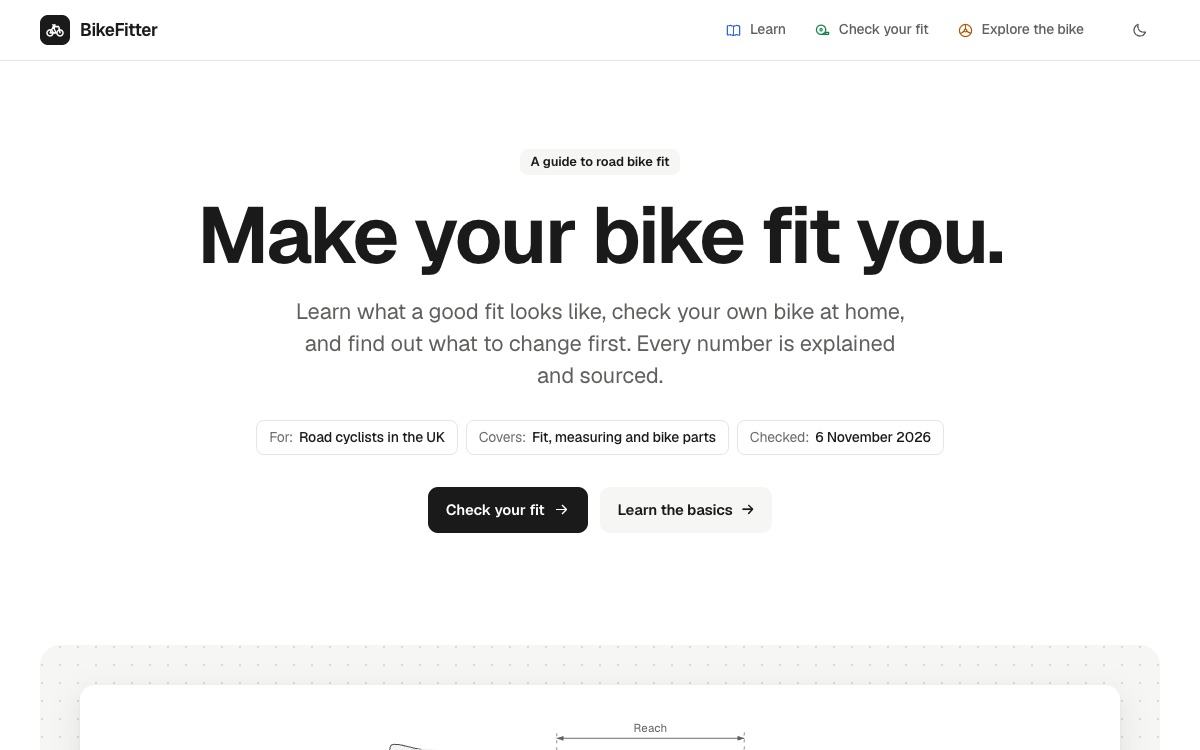
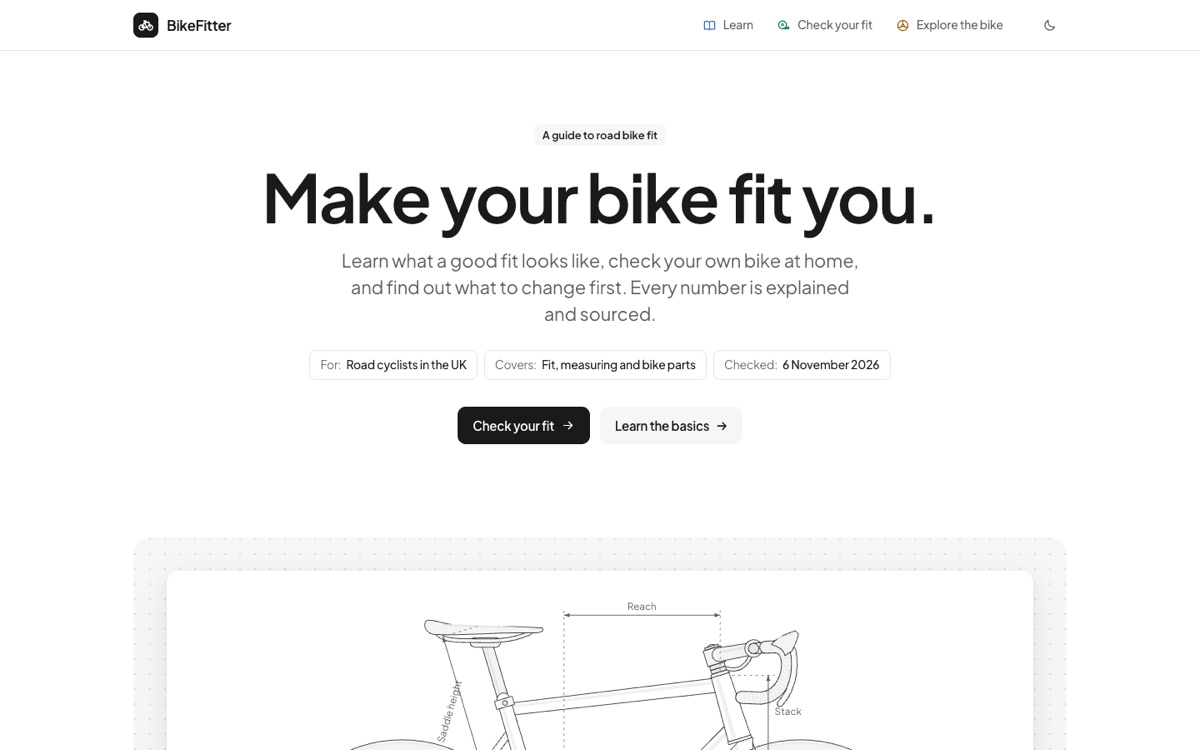
Set Workstand typeface to Plus Jakarta Sans + JetBrains Mono
The user chose this pairing. It is now Workstand's default (pairing 1)
in workstand.css and the Preview bar. Geist + Geist Mono moves to
pairing 2, for comparison only. JetBrains Mono is added to the
Workstand Google Fonts link, so the style no longer relies on the
Logbook link.

Updates the workstand-design skill (type section, review checklist,
token reference), AGENTS.md (§6.2, §6.5, §12, §13), the gallery copy
and the Workstand thumbnail.

diff --git a/designs/site/bike.html b/designs/site/bike.html
@@ -9,7 +9,7 @@
 <link rel="preconnect" href="https://fonts.googleapis.com"><link rel="preconnect" href="https://fonts.gstatic.com" crossorigin>
 <link rel="stylesheet" href="https://fonts.googleapis.com/css2?family=Instrument+Sans:wdth,wght@75..100,400..700&amp;family=IBM+Plex+Mono:wght@400;500;600&amp;family=Schibsted+Grotesk:wght@400..800&amp;family=Martian+Mono:wdth,wght@75..112.5,300..600&amp;family=Newsreader:opsz,wght@6..72,400..700&amp;family=JetBrains+Mono:wght@400..700&amp;display=swap">
 <link rel="stylesheet" href="https://fonts.googleapis.com/css2?family=Archivo:wdth,wght@62..125,100..900&amp;family=Source+Serif+4:opsz,wght@8..60,400..700&amp;family=Barlow+Condensed:wght@500;600;700;800&amp;family=Literata:opsz,wght@7..72,400..700&amp;family=Sofia+Sans+Extra+Condensed:wght@500..900&amp;family=Space+Mono:wght@400;700&amp;display=swap">
-<link rel="stylesheet" href="https://fonts.googleapis.com/css2?family=Geist:wght@300..800&amp;family=Geist+Mono:wght@400..600&amp;family=Plus+Jakarta+Sans:wght@400..800&amp;family=Figtree:wght@400..800&amp;family=DM+Mono:wght@400;500&amp;display=swap">
+<link rel="stylesheet" href="https://fonts.googleapis.com/css2?family=Plus+Jakarta+Sans:wght@400..800&amp;family=JetBrains+Mono:wght@400..700&amp;family=Geist:wght@300..800&amp;family=Geist+Mono:wght@400..600&amp;family=Figtree:wght@400..800&amp;family=DM+Mono:wght@400;500&amp;display=swap">
 <link rel="stylesheet" href="../shared/bike.css">
 <link rel="stylesheet" href="styles/base.css">
 <link rel="stylesheet" href="styles/logbook.css">

diff --git a/designs/site/fit.html b/designs/site/fit.html
@@ -9,7 +9,7 @@
 <link rel="preconnect" href="https://fonts.googleapis.com"><link rel="preconnect" href="https://fonts.gstatic.com" crossorigin>
 <link rel="stylesheet" href="https://fonts.googleapis.com/css2?family=Instrument+Sans:wdth,wght@75..100,400..700&amp;family=IBM+Plex+Mono:wght@400;500;600&amp;family=Schibsted+Grotesk:wght@400..800&amp;family=Martian+Mono:wdth,wght@75..112.5,300..600&amp;family=Newsreader:opsz,wght@6..72,400..700&amp;family=JetBrains+Mono:wght@400..700&amp;display=swap">
 <link rel="stylesheet" href="https://fonts.googleapis.com/css2?family=Archivo:wdth,wght@62..125,100..900&amp;family=Source+Serif+4:opsz,wght@8..60,400..700&amp;family=Barlow+Condensed:wght@500;600;700;800&amp;family=Literata:opsz,wght@7..72,400..700&amp;family=Sofia+Sans+Extra+Condensed:wght@500..900&amp;family=Space+Mono:wght@400;700&amp;display=swap">
-<link rel="stylesheet" href="https://fonts.googleapis.com/css2?family=Geist:wght@300..800&amp;family=Geist+Mono:wght@400..600&amp;family=Plus+Jakarta+Sans:wght@400..800&amp;family=Figtree:wght@400..800&amp;family=DM+Mono:wght@400;500&amp;display=swap">
+<link rel="stylesheet" href="https://fonts.googleapis.com/css2?family=Plus+Jakarta+Sans:wght@400..800&amp;family=JetBrains+Mono:wght@400..700&amp;family=Geist:wght@300..800&amp;family=Geist+Mono:wght@400..600&amp;family=Figtree:wght@400..800&amp;family=DM+Mono:wght@400;500&amp;display=swap">
 <link rel="stylesheet" href="../shared/bike.css">
 <link rel="stylesheet" href="styles/base.css">
 <link rel="stylesheet" href="styles/logbook.css">

diff --git a/designs/site/index.html b/designs/site/index.html
@@ -9,7 +9,7 @@
 <link rel="preconnect" href="https://fonts.googleapis.com"><link rel="preconnect" href="https://fonts.gstatic.com" crossorigin>
 <link rel="stylesheet" href="https://fonts.googleapis.com/css2?family=Instrument+Sans:wdth,wght@75..100,400..700&amp;family=IBM+Plex+Mono:wght@400;500;600&amp;family=Schibsted+Grotesk:wght@400..800&amp;family=Martian+Mono:wdth,wght@75..112.5,300..600&amp;family=Newsreader:opsz,wght@6..72,400..700&amp;family=JetBrains+Mono:wght@400..700&amp;display=swap">
 <link rel="stylesheet" href="https://fonts.googleapis.com/css2?family=Archivo:wdth,wght@62..125,100..900&amp;family=Source+Serif+4:opsz,wght@8..60,400..700&amp;family=Barlow+Condensed:wght@500;600;700;800&amp;family=Literata:opsz,wght@7..72,400..700&amp;family=Sofia+Sans+Extra+Condensed:wght@500..900&amp;family=Space+Mono:wght@400;700&amp;display=swap">
-<link rel="stylesheet" href="https://fonts.googleapis.com/css2?family=Geist:wght@300..800&amp;family=Geist+Mono:wght@400..600&amp;family=Plus+Jakarta+Sans:wght@400..800&amp;family=Figtree:wght@400..800&amp;family=DM+Mono:wght@400;500&amp;display=swap">
+<link rel="stylesheet" href="https://fonts.googleapis.com/css2?family=Plus+Jakarta+Sans:wght@400..800&amp;family=JetBrains+Mono:wght@400..700&amp;family=Geist:wght@300..800&amp;family=Geist+Mono:wght@400..600&amp;family=Figtree:wght@400..800&amp;family=DM+Mono:wght@400;500&amp;display=swap">
 <link rel="stylesheet" href="../shared/bike.css">
 <link rel="stylesheet" href="styles/base.css">
 <link rel="stylesheet" href="styles/logbook.css">

diff --git a/designs/site/learn.html b/designs/site/learn.html
@@ -9,7 +9,7 @@
 <link rel="preconnect" href="https://fonts.googleapis.com"><link rel="preconnect" href="https://fonts.gstatic.com" crossorigin>
 <link rel="stylesheet" href="https://fonts.googleapis.com/css2?family=Instrument+Sans:wdth,wght@75..100,400..700&amp;family=IBM+Plex+Mono:wght@400;500;600&amp;family=Schibsted+Grotesk:wght@400..800&amp;family=Martian+Mono:wdth,wght@75..112.5,300..600&amp;family=Newsreader:opsz,wght@6..72,400..700&amp;family=JetBrains+Mono:wght@400..700&amp;display=swap">
 <link rel="stylesheet" href="https://fonts.googleapis.com/css2?family=Archivo:wdth,wght@62..125,100..900&amp;family=Source+Serif+4:opsz,wght@8..60,400..700&amp;family=Barlow+Condensed:wght@500;600;700;800&amp;family=Literata:opsz,wght@7..72,400..700&amp;family=Sofia+Sans+Extra+Condensed:wght@500..900&amp;family=Space+Mono:wght@400;700&amp;display=swap">
-<link rel="stylesheet" href="https://fonts.googleapis.com/css2?family=Geist:wght@300..800&amp;family=Geist+Mono:wght@400..600&amp;family=Plus+Jakarta+Sans:wght@400..800&amp;family=Figtree:wght@400..800&amp;family=DM+Mono:wght@400;500&amp;display=swap">
+<link rel="stylesheet" href="https://fonts.googleapis.com/css2?family=Plus+Jakarta+Sans:wght@400..800&amp;family=JetBrains+Mono:wght@400..700&amp;family=Geist:wght@300..800&amp;family=Geist+Mono:wght@400..600&amp;family=Figtree:wght@400..800&amp;family=DM+Mono:wght@400;500&amp;display=swap">
 <link rel="stylesheet" href="../shared/bike.css">
 <link rel="stylesheet" href="styles/base.css">
 <link rel="stylesheet" href="styles/logbook.css">

diff --git a/designs/site/lesson.html b/designs/site/lesson.html
@@ -9,7 +9,7 @@
 <link rel="preconnect" href="https://fonts.googleapis.com"><link rel="preconnect" href="https://fonts.gstatic.com" crossorigin>
 <link rel="stylesheet" href="https://fonts.googleapis.com/css2?family=Instrument+Sans:wdth,wght@75..100,400..700&amp;family=IBM+Plex+Mono:wght@400;500;600&amp;family=Schibsted+Grotesk:wght@400..800&amp;family=Martian+Mono:wdth,wght@75..112.5,300..600&amp;family=Newsreader:opsz,wght@6..72,400..700&amp;family=JetBrains+Mono:wght@400..700&amp;display=swap">
 <link rel="stylesheet" href="https://fonts.googleapis.com/css2?family=Archivo:wdth,wght@62..125,100..900&amp;family=Source+Serif+4:opsz,wght@8..60,400..700&amp;family=Barlow+Condensed:wght@500;600;700;800&amp;family=Literata:opsz,wght@7..72,400..700&amp;family=Sofia+Sans+Extra+Condensed:wght@500..900&amp;family=Space+Mono:wght@400;700&amp;display=swap">
-<link rel="stylesheet" href="https://fonts.googleapis.com/css2?family=Geist:wght@300..800&amp;family=Geist+Mono:wght@400..600&amp;family=Plus+Jakarta+Sans:wght@400..800&amp;family=Figtree:wght@400..800&amp;family=DM+Mono:wght@400;500&amp;display=swap">
+<link rel="stylesheet" href="https://fonts.googleapis.com/css2?family=Plus+Jakarta+Sans:wght@400..800&amp;family=JetBrains+Mono:wght@400..700&amp;family=Geist:wght@300..800&amp;family=Geist+Mono:wght@400..600&amp;family=Figtree:wght@400..800&amp;family=DM+Mono:wght@400;500&amp;display=swap">
 <link rel="stylesheet" href="../shared/bike.css">
 <link rel="stylesheet" href="styles/base.css">
 <link rel="stylesheet" href="styles/logbook.css">

diff --git a/designs/site/style.html b/designs/site/style.html
@@ -9,7 +9,7 @@
 <link rel="preconnect" href="https://fonts.googleapis.com"><link rel="preconnect" href="https://fonts.gstatic.com" crossorigin>
 <link rel="stylesheet" href="https://fonts.googleapis.com/css2?family=Instrument+Sans:wdth,wght@75..100,400..700&amp;family=IBM+Plex+Mono:wght@400;500;600&amp;family=Schibsted+Grotesk:wght@400..800&amp;family=Martian+Mono:wdth,wght@75..112.5,300..600&amp;family=Newsreader:opsz,wght@6..72,400..700&amp;family=JetBrains+Mono:wght@400..700&amp;display=swap">
 <link rel="stylesheet" href="https://fonts.googleapis.com/css2?family=Archivo:wdth,wght@62..125,100..900&amp;family=Source+Serif+4:opsz,wght@8..60,400..700&amp;family=Barlow+Condensed:wght@500;600;700;800&amp;family=Literata:opsz,wght@7..72,400..700&amp;family=Sofia+Sans+Extra+Condensed:wght@500..900&amp;family=Space+Mono:wght@400;700&amp;display=swap">
-<link rel="stylesheet" href="https://fonts.googleapis.com/css2?family=Geist:wght@300..800&amp;family=Geist+Mono:wght@400..600&amp;family=Plus+Jakarta+Sans:wght@400..800&amp;family=Figtree:wght@400..800&amp;family=DM+Mono:wght@400;500&amp;display=swap">
+<link rel="stylesheet" href="https://fonts.googleapis.com/css2?family=Plus+Jakarta+Sans:wght@400..800&amp;family=JetBrains+Mono:wght@400..700&amp;family=Geist:wght@300..800&amp;family=Geist+Mono:wght@400..600&amp;family=Figtree:wght@400..800&amp;family=DM+Mono:wght@400;500&amp;display=swap">
 <link rel="stylesheet" href="../shared/bike.css">
 <link rel="stylesheet" href="styles/base.css">
 <link rel="stylesheet" href="styles/logbook.css">

diff --git a/designs/site/styles/workstand.css b/designs/site/styles/workstand.css
@@ -24,8 +24,9 @@
   --bike: #a85100; --bike-tint: #fdf0de; --bike-dot: #efcf9f;
   --tone: var(--ink); --tone-tint: var(--surface); --tone-dot: #dcdcd6; --on-tone: #ffffff;
   --shadow: 0 1px 2px rgba(0, 0, 0, .06), 0 10px 30px rgba(0, 0, 0, .09);
-  --f-text: "Geist", ui-sans-serif, system-ui, sans-serif; --f-display: var(--f-text);
-  --f-mono: "Geist Mono", ui-monospace, Menlo, monospace;
+  /* Typeface chosen by the user on 6 November 2026: Plus Jakarta Sans + JetBrains Mono */
+  --f-text: "Plus Jakarta Sans", ui-sans-serif, system-ui, sans-serif; --f-display: var(--f-text);
+  --f-mono: "JetBrains Mono", ui-monospace, Menlo, monospace;
   --max: 1120px; --head-h: 60px;
   color-scheme: light;
 
@@ -39,7 +40,7 @@
     --shadow: 0 1px 2px rgba(0, 0, 0, .4), 0 12px 32px rgba(0, 0, 0, .45);
     color-scheme: dark;
   }
-  &[data-font="2"] { --f-text: "Plus Jakarta Sans", ui-sans-serif, system-ui, sans-serif; --f-mono: "JetBrains Mono", ui-monospace, Menlo, monospace; }
+  &[data-font="2"] { --f-text: "Geist", ui-sans-serif, system-ui, sans-serif; --f-mono: "Geist Mono", ui-monospace, Menlo, monospace; }
   &[data-font="3"] { --f-text: "Figtree", ui-sans-serif, system-ui, sans-serif; --f-mono: "DM Mono", ui-monospace, Menlo, monospace; }
 
   /* Tool colours: set by the page, and by anything that belongs to a tool */

diff --git a/designs/index.html b/designs/index.html
@@ -66,7 +66,7 @@ footer p { margin: 0 0 8px; max-width: 64em; }
         <p class="line">A tidy workshop: every tool has its place and its own colour. Friendly, modular and smart.</p>
         <dl>
           <dt>Palette</dt><dd><span class="swatches" aria-label="White, ink, Learn blue, Fit green and Bike amber"><i style="background:#ffffff"></i><i style="background:#1a1a19"></i><i style="background:#2b63e0"></i><i style="background:#107a44"></i><i style="background:#a85100"></i></span></dd>
-          <dt>Type</dt><dd>Geist + Geist Mono, Plus Jakarta Sans + JetBrains Mono, or Figtree + DM Mono</dd>
+          <dt>Type</dt><dd>Plus Jakarta Sans + JetBrains Mono (chosen). Geist + Geist Mono and Figtree + DM Mono for comparison</dd>
           <dt>Signature</dt><dd>Tool colours that follow you (Learn blue, Fit green, Bike amber), dotted pegboard panels, real interface previews in windows, shape-coded evidence labels (◆ ● ▲)</dd>
         </dl>
         <p class="links"><a href="site/index.html?style=workstand">Open Workstand ›</a><a href="site/style.html?style=workstand">Its rules ›</a></p>

diff --git a/designs/site/site.js b/designs/site/site.js
@@ -27,7 +27,7 @@
     workstand: {
       name: 'Workstand',
       line: 'A tidy workshop: every tool has its place and its own colour.',
-      fonts: ['Geist + Geist Mono', 'Plus Jakarta Sans + JetBrains Mono', 'Figtree + DM Mono'],
+      fonts: ['Plus Jakarta Sans + JetBrains Mono', 'Geist + Geist Mono', 'Figtree + DM Mono'],
       swatches: [['--bg', 'Bench'], ['--surface', 'Shelf'], ['--ink', 'Ink'], ['--ink-2', 'Label'], ['--learn', 'Learn blue'], ['--fit', 'Fit green'], ['--bike', 'Bike amber']]
     }
   };

diff --git a/AGENTS.md b/AGENTS.md
@@ -319,7 +319,7 @@ Changing a Workstand rule is the user's decision. Ask first. Then update the sty
 
 | Element | Value |
 |---|---|
-| Type | From Google Fonts. Default Geist + Geist Mono; the alternatives are Plus Jakarta Sans + JetBrains Mono and Figtree + DM Mono (see §12). Headings weight 650 with -0.03em tracking. Body 17 px / 1.55. Labels 13 px semibold. Mono only for small metadata. |
+| Type | **Plus Jakarta Sans + JetBrains Mono**, from Google Fonts (the user chose these on 2026-11-06). Plus Jakarta Sans is for headings and reading; JetBrains Mono is for small metadata only. Headings weight 650 with -0.03em tracking. Body 17 px / 1.55. Labels 13 px semibold. Mono only for small metadata. |
 | Radii | 20 px pegboard panels, 14 px cards, 12 px windows, 10 px buttons, 8 px chips, 6 px inline badges |
 | Depth | 1 px hairlines. One shadow token, used on windows only. |
 | Pattern | A dotted pegboard in the current tool's tint. It is the only pattern or gradient. |
@@ -379,7 +379,7 @@ Workstand is the default. The Preview bar (bottom left, for design review only) 
 
 | Name | Leads with | In one line | Palette (light / dark) | Type (Google Fonts; first is default) | Rules and signature moves |
 |---|---|---|---|---|---|
-| **Workstand (chosen)** | Notion | A tidy workshop: every tool has its place and its own colour | White `#ffffff`, shelf `#f6f6f3`, ink `#1a1a19`; Learn `#2b63e0`, Fit `#107a44`, Bike `#a85100` / `#151515`, `#1d1d1d`, `#ededea`; `#7da6ff`, `#4fcb86`, `#f2a65a` | 1 Geist + Geist Mono · 2 Plus Jakarta Sans + JetBrains Mono · 3 Figtree + DM Mono | See the `workstand-design` skill. Tool colours follow the tool everywhere, and pages that aren't a tool are ink. Dotted pegboard panels hold white windows that preview the real interface. Evidence is shown by shape (◆ Research, ● Expert practice, ▲ Rule of thumb), never by colour. 14 px cards, 10 px buttons, 8 px chips; only windows get a shadow. One 24 px line-icon set, no emoji. Sentence-case, left-aligned headings; only the opening hero and the closing panel are centred. Anything that links ends with an arrow. The selected bike part goes amber. |
+| **Workstand (chosen)** | Notion | A tidy workshop: every tool has its place and its own colour | White `#ffffff`, shelf `#f6f6f3`, ink `#1a1a19`; Learn `#2b63e0`, Fit `#107a44`, Bike `#a85100` / `#151515`, `#1d1d1d`, `#ededea`; `#7da6ff`, `#4fcb86`, `#f2a65a` | **Plus Jakarta Sans + JetBrains Mono** (chosen; the Preview bar also offers 2 Geist + Geist Mono and 3 Figtree + DM Mono for comparison) | See the `workstand-design` skill. Tool colours follow the tool everywhere, and pages that aren't a tool are ink. Dotted pegboard panels hold white windows that preview the real interface. Evidence is shown by shape (◆ Research, ● Expert practice, ▲ Rule of thumb), never by colour. 14 px cards, 10 px buttons, 8 px chips; only windows get a shadow. One 24 px line-icon set, no emoji. Sentence-case, left-aligned headings; only the opening hero and the closing panel are centred. Anything that links ends with an arrow. The selected bike part goes amber. |
 
 Retired directions (reference only):
 
@@ -592,7 +592,7 @@ These are vetted starting facts. The cited source still has to be re-confirmed b
 ## 12. Open questions / TODO
 
 - [x] Choose a design direction: **Workstand** (chosen 2026-11-06; see §6 and the `workstand-design` skill). Carbon was chosen first, then kept only as the Apple-faithful baseline after the user asked for a more unique identity.
-- [ ] Choose Workstand's typeface pairing: Geist + Geist Mono (current default), Plus Jakarta Sans + JetBrains Mono, or Figtree + DM Mono. Try them from the Preview bar.
+- [x] Choose Workstand's typeface pairing: **Plus Jakarta Sans + JetBrains Mono** (chosen 2026-11-06).
 - [ ] Decide whether Workstand defaults to dark, light or the device setting (it currently follows the device).
 - [ ] Decide whether to keep the retired Logbook, Velodrome and Carbon prototypes in `designs/` for reference, or delete them.
 - [ ] Find a verifiable Tier 1 or 2 source for the LeMond (0.883) and Hamley (109%) saddle-height formulas, for example by getting the Peveler et al. 2005 full text (§8). Until then, keep them out of the calculator. (Partly done: Hogg confirms LeMond's definition, but argues against using it. Decide with the user whether lessons may show it as a criticised rule of thumb.)
@@ -620,3 +620,4 @@ These are vetted starting facts. The cited source still has to be re-confirmed b
 - 2026-11-06: User asked for a more unique identity than Carbon's close copy of Apple. Built three new named styles, each a blend of Apple, claude.dev, The Verge and Notion with its own rules: **Logbook** (led by claude.dev), **Velodrome** (led by The Verge) and **Workstand** (led by Notion). All share one page set in `designs/site/` with a Preview bar to switch style and typeface (three Google Fonts pairings each), light and dark modes, and a style guide page. Retired and deleted Daylight, Manual and `shared/common.js`. Kept Carbon as the baseline. Rewrote §0 rule 3, §6 and §6.5, and added the style references to §8.
 - 2026-11-06: User locked in **Workstand** as BikeFitter's design style. Added the `workstand-design` skill (`.claude/skills/workstand-design/`: rules, tokens, type scale, containers, decision procedure, review checklist, plus `references/tokens.md` with the full tokens and contrast table). Made it mandatory for every design choice and review (§0 rule 3, §6, §11). Replaced the Carbon tokens in §6.2 and the components in §6.3 with Workstand's. Moved Logbook, Velodrome and Carbon to reference only. Made Workstand the default style in `designs/site/boot.js`. Darkened light-mode Fit green (`#13834a` → `#107a44`) and Bike amber (`#b25600` → `#a85100`), because tool-coloured chip text on its own tint was below WCAG AA (4.22 and 4.43; now 4.75 and 4.87). Clarified rule 7: only the opening hero and the closing panel are centred, and lessons stay left.
 - 2026-11-06: Put the project under git at https://github.com/JosephLambon/BikeFitter. `main` holds only the repo guards (`.gitignore` and the `branch-policy` workflow); this work is on `develop`. Protected `main` and `develop` (§11 Git workflow).
+- 2026-11-06: User chose **Plus Jakarta Sans + JetBrains Mono** as Workstand's typeface pairing. It is now pairing 1 (the default) in `workstand.css` and the Preview bar. Geist + Geist Mono moved to pairing 2, for comparison only. Added JetBrains Mono to the Workstand font link. Updated the `workstand-design` skill, §6.2, §6.5 and §12.

diff --git a/.claude/skills/workstand-design/references/tokens.md b/.claude/skills/workstand-design/references/tokens.md
@@ -55,12 +55,14 @@ Light `--fit` and `--bike` were darkened on 6 November 2026 (from `#13834a` and 
 
 ## Type
 
-| Token | Default (`data-font="1"`) | `data-font="2"` | `data-font="3"` |
+| Token | **Chosen** (default, `data-font="1"`) | Comparison only: `data-font="2"` | Comparison only: `data-font="3"` |
 |---|---|---|---|
-| `--f-text` and `--f-display` | Geist | Plus Jakarta Sans | Figtree |
-| `--f-mono` | Geist Mono | JetBrains Mono | DM Mono |
+| `--f-text` and `--f-display` | **Plus Jakarta Sans** (400–800) | Geist | Figtree |
+| `--f-mono` | **JetBrains Mono** (400–700) | Geist Mono | DM Mono |
 
-In the prototypes, five of these load from the Workstand Google Fonts link (`Geist:wght@300..800`, `Geist+Mono:wght@400..600`, `Plus+Jakarta+Sans:wght@400..800`, `Figtree:wght@400..800`, `DM+Mono:wght@400;500`). JetBrains Mono comes from the Logbook link. In the real build, load only the chosen pairing. Fallbacks: `ui-sans-serif, system-ui, sans-serif` and `ui-monospace, Menlo, monospace`.
+The user chose Plus Jakarta Sans + JetBrains Mono on 6 November 2026. The other two pairings exist only in the prototype's Preview bar.
+
+In the prototypes, all six families load from the Workstand Google Fonts link. In the real build, load only the chosen pair: `https://fonts.googleapis.com/css2?family=Plus+Jakarta+Sans:wght@400..800&family=JetBrains+Mono:wght@400..700&display=swap` (returned 200 on 6 November 2026). Fallbacks: `ui-sans-serif, system-ui, sans-serif` and `ui-monospace, Menlo, monospace`.
 
 ## Layout
 
